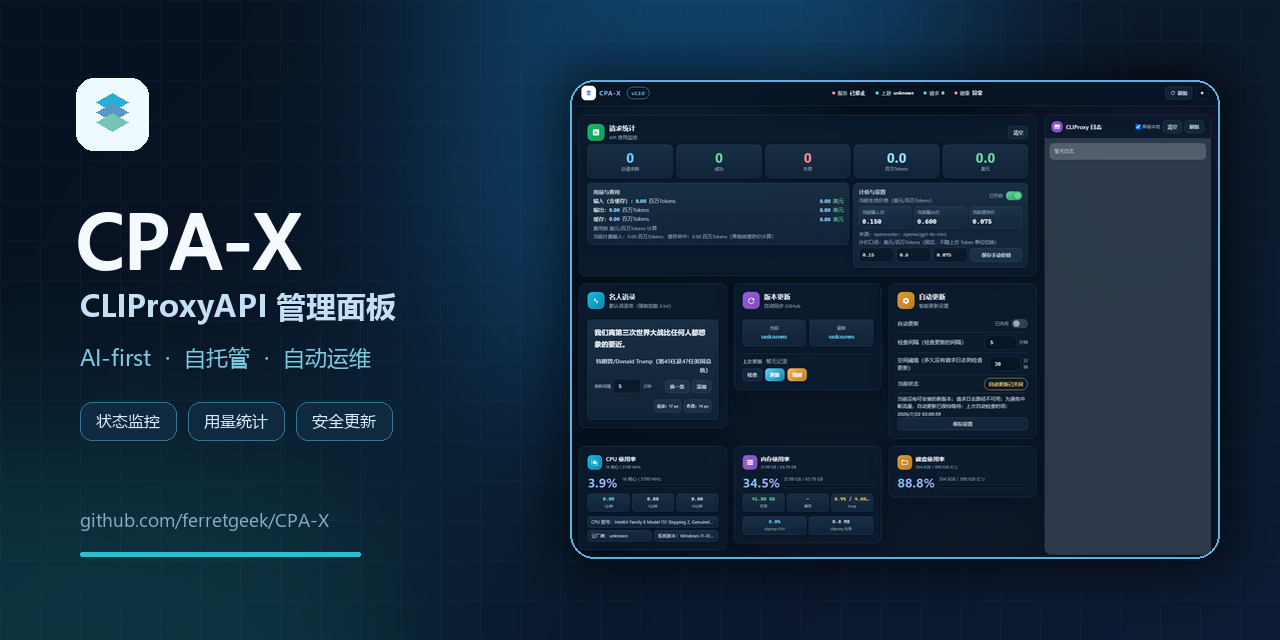
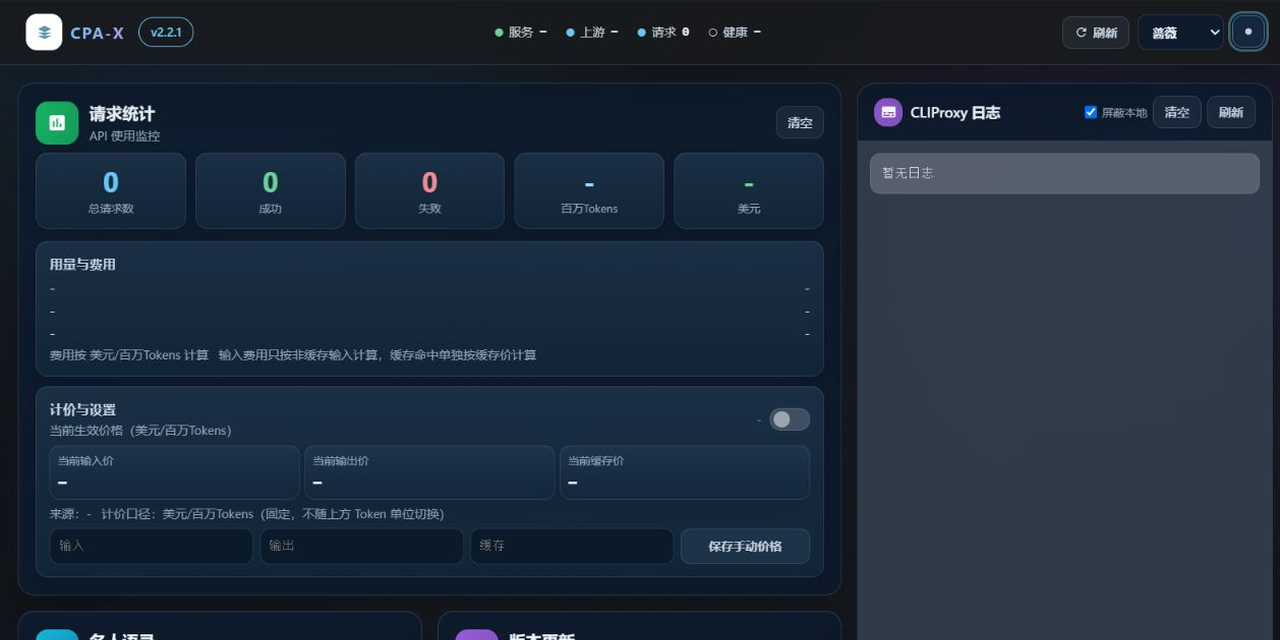
feat: add global light palettes and refresh previews

diff --git a/static/index.html b/static/index.html
@@ -4,7 +4,7 @@
     <meta charset="UTF-8">
     <meta name="viewport" content="width=device-width, initial-scale=1.0">
     <title>CPA-X 管理面板 v2.2.1</title>
-    <meta name="theme-color" content="#0c1222">
+    <meta id="theme-color" name="theme-color" content="#17191d">
     <link rel="icon" href="/favicon.ico" sizes="any">
     <link rel="shortcut icon" href="/favicon.ico">
     <link rel="icon" type="image/svg+xml" href="/favicon.svg">
@@ -1146,7 +1146,7 @@
             --bg-gradient:
                 radial-gradient(circle at 12% -8%, rgba(49, 151, 203, 0.23), transparent 34rem),
                 radial-gradient(circle at 92% 12%, rgba(119, 87, 185, 0.16), transparent 30rem),
-                linear-gradient(145deg, #07111f 0%, #0a1626 48%, #101a2d 100%);
+                linear-gradient(145deg, #17191d 0%, #17191d 48%, #17191d 100%);
             --glass-bg: rgba(12, 27, 45, 0.86);
             --glass-bg-hover: rgba(20, 40, 62, 0.94);
             --glass-border: rgba(157, 192, 224, 0.18);
@@ -1197,6 +1197,44 @@
             --inner-surface-shadow: inset 0 1px 0 #ffffff, 0 7px 18px rgba(52, 76, 96, 0.08);
         }
 
+        [data-theme="light"][data-palette="mint"] {
+            --bg-gradient:
+                radial-gradient(circle at 8% 0%, rgba(70, 181, 145, 0.18), transparent 34rem),
+                radial-gradient(circle at 96% 8%, rgba(95, 164, 201, 0.12), transparent 30rem),
+                linear-gradient(145deg, #edf8f4 0%, #f8fcfa 52%, #e6f2ed 100%);
+            --glass-border-strong: rgba(21, 137, 101, 0.38);
+            --accent: #178766;
+            --accent-strong: #0f694f;
+            --success: #187c4c;
+            --purple: #537d73;
+            --req-number: #12745a;
+        }
+
+        [data-theme="light"][data-palette="rose"] {
+            --bg-gradient:
+                radial-gradient(circle at 10% 0%, rgba(221, 104, 141, 0.16), transparent 34rem),
+                radial-gradient(circle at 96% 8%, rgba(154, 120, 205, 0.13), transparent 30rem),
+                linear-gradient(145deg, #fff2f6 0%, #fffafb 52%, #f7edf4 100%);
+            --glass-border-strong: rgba(189, 75, 111, 0.34);
+            --accent: #b84e72;
+            --accent-strong: #913655;
+            --purple: #79559d;
+            --req-number: #aa4568;
+        }
+
+        [data-theme="light"][data-palette="sand"] {
+            --bg-gradient:
+                radial-gradient(circle at 10% 0%, rgba(213, 153, 83, 0.16), transparent 34rem),
+                radial-gradient(circle at 96% 8%, rgba(114, 154, 146, 0.11), transparent 30rem),
+                linear-gradient(145deg, #fbf5ea 0%, #fffdf8 52%, #f2eadf 100%);
+            --glass-border-strong: rgba(167, 109, 47, 0.34);
+            --accent: #9b672d;
+            --accent-strong: #785022;
+            --warning: #8d5d18;
+            --purple: #766185;
+            --req-number: #8f5e28;
+        }
+
         html, body {
             width: 100%;
             min-height: 100%;
@@ -1227,9 +1265,19 @@
             gap: 18px;
             border-width: 0 0 1px;
             border-radius: 0;
-            background: rgba(8, 20, 35, 0.9);
+            background: rgba(23, 25, 29, 0.94);
         }
         [data-theme="light"] .header { background: rgba(247, 250, 252, 0.92); }
+        .theme-select {
+            min-height: 34px;
+            padding: 0 30px 0 10px;
+            border: 1px solid var(--glass-border);
+            border-radius: 9px;
+            background: var(--glass-bg);
+            color: var(--text-primary);
+            font: 600 12px/1 var(--font-sans);
+            cursor: pointer;
+        }
         .logo-icon { width: 36px; height: 36px; border-radius: 11px; }
         .logo-text { font-size: 16px; letter-spacing: 0.08em; }
         .header-center { gap: clamp(10px, 1.5vw, 24px); }
@@ -1391,7 +1439,7 @@
 
     </style>
 </head>
-<body data-theme="dark">
+<body data-theme="dark" data-palette="sky">
     <div class="bg-orbs">
         <div class="orb orb-1"></div>
         <div class="orb orb-2"></div>
@@ -1433,6 +1481,12 @@
                 <svg width="14" height="14" viewBox="0 0 24 24" fill="currentColor"><path d="M17.65 6.35A7.958 7.958 0 0012 4c-4.42 0-7.99 3.58-7.99 8s3.57 8 7.99 8c3.73 0 6.84-2.55 7.73-6h-2.08A5.99 5.99 0 0112 18c-3.31 0-6-2.69-6-6s2.69-6 6-6c1.66 0 3.14.69 4.22 1.78L13 11h7V4l-2.35 2.35z"/></svg>
                 刷新
             </button>
+            <select id="theme-select" class="theme-select" onchange="setLightPalette(this.value)" aria-label="选择浅色主题" title="选择浅色主题">
+                <option value="sky">天光</option>
+                <option value="mint">薄荷</option>
+                <option value="rose">蔷薇</option>
+                <option value="sand">暖砂</option>
+            </select>
             <button type="button" class="theme-btn" onclick="toggleTheme()" title="切换主题" aria-label="切换明暗主题">
                 <svg id="theme-icon" viewBox="0 0 24 24"><path d="M12 7a5 5 0 100 10 5 5 0 000-10zM12 1v2M12 21v2M4.22 4.22l1.42 1.42M18.36 18.36l1.42 1.42M1 12h2M21 12h2M4.22 19.78l1.42-1.42M18.36 5.64l1.42-1.42"/></svg>
             </button>
@@ -1829,9 +1883,23 @@
         }
 
         // 主题
+        const LIGHT_PALETTES = new Set(['sky', 'mint', 'rose', 'sand']);
+
         function initTheme() {
-            const saved = localStorage.getItem('theme') || 'dark';
+            const saved = localStorage.getItem('theme') === 'light' ? 'light' : 'dark';
+            const paletteValue = localStorage.getItem('theme_palette');
+            const palette = LIGHT_PALETTES.has(paletteValue) ? paletteValue : 'sky';
             document.body.setAttribute('data-theme', saved);
+            document.body.setAttribute('data-palette', palette);
+            updateThemeIcon();
+        }
+
+        function setLightPalette(value) {
+            const palette = LIGHT_PALETTES.has(value) ? value : 'sky';
+            document.body.setAttribute('data-palette', palette);
+            document.body.setAttribute('data-theme', 'light');
+            localStorage.setItem('theme_palette', palette);
+            localStorage.setItem('theme', 'light');
             updateThemeIcon();
         }
 
@@ -1845,6 +1913,11 @@
 
         function updateThemeIcon() {
             const isDark = document.body.getAttribute('data-theme') === 'dark';
+            const palette = document.body.getAttribute('data-palette') || 'sky';
+            const select = document.getElementById('theme-select');
+            if (select) select.value = palette;
+            const themeColor = document.getElementById('theme-color');
+            if (themeColor) themeColor.setAttribute('content', isDark ? '#17191d' : getComputedStyle(document.body).getPropertyValue('--accent').trim());
             document.getElementById('theme-icon').innerHTML = isDark
                 ? '<path d="M12 7a5 5 0 100 10 5 5 0 000-10zM12 1v2M12 21v2M4.22 4.22l1.42 1.42M18.36 18.36l1.42 1.42M1 12h2M21 12h2M4.22 19.78l1.42-1.42M18.36 5.64l1.42-1.42"/>'
                 : '<path d="M21 12.79A9 9 0 1111.21 3 7 7 0 0021 12.79z"/>';

diff --git a/README.md b/README.md
@@ -30,7 +30,7 @@ v2.2.1 hardens production updates after an intermittent `502` incident: deployme
 | Safe auto-update | Online preparation, SHA-256 verification, atomic replacement, real management-endpoint health checks, rollback, and failed-version backoff. |
 | Usage and cost insights | Uses incremental logs for live request totals and preserves historical token/cost data from existing local compatibility snapshots. |
 | Long-running stability | Incremental log parsing, atomic persistence, outage backoff, and count/age/size backup caps. |
-| Readable interface | Self-contained responsive dark/light UI for desktop, tablet, mobile, and keyboard users. |
+| Readable interface | Self-contained responsive UI with Sky, Mint, Rose, and Sand light palettes plus a `#17191d` deep-gray mode. |
 | Flexible deployment | Linux/systemd, Windows, and Docker monitoring modes with auto-detection installers. |
 
 ## Preview

diff --git a/README_CN.md b/README_CN.md
@@ -29,7 +29,7 @@ v2.2.1 针对一次间歇 `502` 生产故障强化更新流程：部署成功必
 | 安全自动更新 | 在线准备、SHA-256 校验、原子替换、真实管理接口健康确认、失败回滚与版本退避。 |
 | 用量与费用 | 以请求日志提供实时请求统计，并保留已有本地兼容快照中的历史 Token 与费用数据。 |
 | 长期运行 | 增量日志解析、原子持久化、后台退避与备份数量/天数/容量三重限制。 |
-| 可读界面 | 无外部字体依赖的深浅色响应式 UI，支持桌面、平板、手机与键盘操作。 |
+| 可读界面 | 无外部字体依赖的响应式 UI，提供天光、薄荷、蔷薇、暖砂四套浅色主题与 `#17191d` 深灰模式。 |
 | 多种部署 | 支持 Linux/systemd、Windows 与 Docker 监控模式，并提供自动探测安装脚本。 |
 
 ## 预览图
